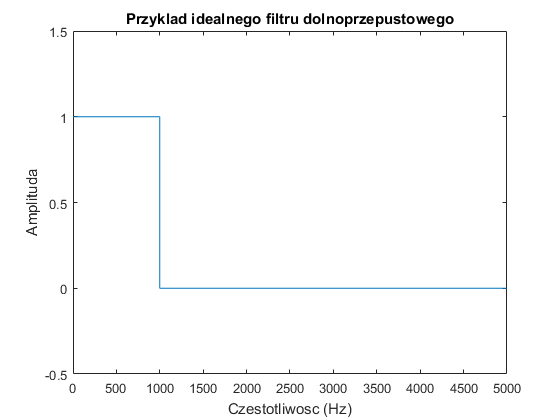
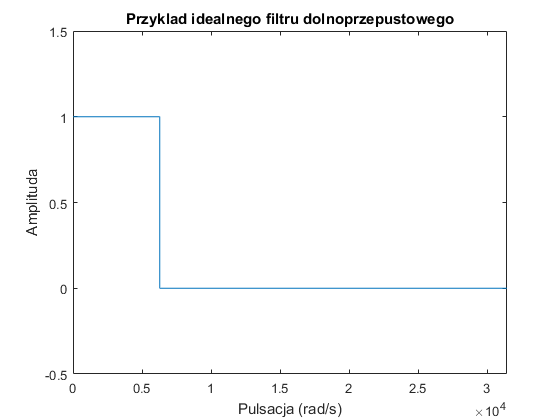
JP: thesis: user interface

diff --git a/PracaMagisterska/subtractive.tex b/PracaMagisterska/subtractive.tex
@@ -1,4 +1,5 @@
 \chapter{Subtraktywna metoda syntezy dźwięku}\label{chapter_subtractive}
+Jedną z większych trudności w cyfrowej implementacji syntezy subtraktywnej jest opracowanie programu, który jest w stanie ją przeprowadzić w czasie rzeczywistym na danej platformie sprzętowej. Program taki musi uwzględniać generowanie przebiegów okresowych, ich filtrację oraz zakładkowanie w celu pozbycia się artefaktów dźwiękowych. W tym rozdziale opisano zasadę działania subtraktywnej syntezy dźwięku, jej implementację na procesorze sygnałowym oraz interfejs użytkownika.
 \section{Zasada działania syntezy subtraktywnej}
 Metoda subtraktywna polega na wygenerowaniu przebiegu okresowego bogatego pod względem składowych harmonicznych. Taki sygnał poddaje się filtracji w celu wytłumienia części składowych, co prowadzi do uzyskania interesujących dźwięków. Najczęściej wykorzystywanymi przebiegami w tej metodzie są: prostokątny, trójkątny, piłokształtny. Do usuwania składowych harmonicznych można zastosować filtry dolnoprzepustowe, górnoprzepustowego, pasmo-zaporowe czy pasmo-przepustowe. Na rysunku \ref{rys:sub_diagram} pokazano schemat blokowy opisanego postępowania.
 
@@ -30,7 +31,11 @@ H(\omega)=\left \{\begin{array}{ r l }
 	gdzie: & $\omega$ &  - & pulsacja, \\
 	&	$\omega_{gr}$ & - &  pulsacja graniczna filtru,\\
 \end{tabular} \\ \\
-przedstawiono na rysunku \ref{rys:sub_lowpass}. Pulsacja graniczna filtru to taka pulsacja, powyżej której wzmocnienie jest mniejsze niż 3 dB w stosunku do pasma przepustowego tego filtru. W przypadku idealnym wzmocnienie zmienia się skokowo z 1 na 0 dokładnie na pulsacji granicznej. W pokazanym przykładzie pulsacja graniczna wynosi 1000 Hz.
+przedstawiono na rysunku \ref{rys:sub_lowpass}. Pulsacja graniczna filtru to taka pulsacja, powyżej której wzmocnienie jest mniejsze niż 3 dB w stosunku do pasma przepustowego tego filtru. W przypadku idealnym wzmocnienie zmienia się skokowo z 1 na 0 dokładnie na pulsacji granicznej. W pokazanym przykładzie pulsacja graniczna wynosi około 6283 rad/s, co zgodnie ze wzorem
+\begin{equation} \label{equ:sub_frequency}
+f = \frac{\omega}{2 \pi}
+\end{equation}
+daje częstotliwość równą 1000 Hz.
 \begin{figure}[H]
 	\centering
 	\includegraphics[width=8cm]{grafiki/sub_lowpass}
@@ -72,14 +77,13 @@ Oznacza to, że równoważnym do działania opisanego w \ref{equ:sub_splot_dyskr
 \begin{equation} \label{equ:sub_splot_dyskretny2}
 y[n] = \mathcal{F}^{-1}\{ H(k) X(k)\} 
 \end{equation}
-
 Zatem z przefiltrowanego widma, za pomocą odwrotnej transformacji Fouriera, obliczany jest przebieg czasowy. W pokazanym przykładzie na \ref{rys:sub_wykres1}, w wyniku otrzymuje się sygnał prostokątny po filtracji dolnoprzepustowej.
 \section{Implementacja syntezy subtraktywnej}
 W przypadku syntezatorów analogowych, poszczególne bloki są realizowane za pomocą elementów elektronicznych takich jak oscylatory (VCO) oraz przestrajalne filtry. W syntezatorach cyfrowych implementacje mogą być różne, jednak muszą być na tyle wydajne obliczeniowo, aby dana platforma sprzętowa poradziła sobie z syntezą dźwięku w czasie rzeczywistym bez artefaktów dźwiękowych. W tym podrozdziale opisana zostanie obrana droga implementacji metody subtraktywnej na procesorze sygnałowym. 
 Próbki sygnału są syntezowane w sposób blokowy. Blok danych składa się z $N=1024$ próbek.
 
 \subsection{Generowanie przebiegu}
-W tablicy o $N$ elementach przechowywane są kolejne próbki sygnału podstawowego, czyli sygnału bogatego w wyższe składowe harmoniczne. Po dokonaniu filtracji i wystawieniu tych próbek na przetwornik cyfrowo-analogowy, w tablicy tej należy wygenerować kolejne 1024 próbek sygnału. Trzeba przy tym pamiętać o odpowiednim przesunięciu fazowym, tak aby zachować ciągłość pomiędzy kolejnymi blokami próbek wystawianych na przetwornik. Równanie \ref{equ:sub_1} opisuje sposób generowania przebiegu prostokątnego.
+W dwóch tablicach o $N$ elementach przechowywane są kolejne próbki sygnału podstawowego, czyli sygnału bogatego w wyższe składowe harmoniczne. Po dokonaniu filtracji i wystawieniu próbek jednej z tablic na przetwornik cyfrowo-analogowy, wystawiane są próbki z drugiej tablicy. W tym czasie w chwilowo nieużywanej tablicy należy wygenerować kolejne 1024 próbek sygnału. Trzeba przy tym pamiętać o odpowiednim przesunięciu fazowym, tak aby zachować ciągłość pomiędzy kolejnymi blokami próbek wystawianych na przetwornik. Równanie \ref{equ:sub_1} opisuje sposób generowania przebiegu prostokątnego.
 \begin{equation} \label{equ:sub_1}
 waveform[i]=\left \{\begin{array}{ r l }
 1, & \quad \text{$dla$ } sin(2\pi f\frac{k+i}{F_s}) > 0\\
@@ -136,11 +140,11 @@ Samo przesuwanie w fazie generowanych sygnałów opisanych w \ref{equ:sub_2} nie
 	\label{rys:sub_zakladkowania_brak}
 \end{figure}
 Rozwiązaniem tego problemu jest zakładkowanie każdych dwóch sąsiednich bloków próbek. Zakładkowanie polega na nasunięciu pewnej liczby $m$ początkowych próbek następnego bloku, na $m$ końcowych próbek bieżącego. W miejscach, gdzie bloki są na siebie nałożone, wartość każdej próbki obliczana jest jako średnia ważona z dwóch nałożonych na siebie próbek. Przy czym suma wag w każdej chwili czasu jest równa 1, wagi próbek bloku bieżącego maleją wraz z czasem, natomiast wagi próbek bloku następnego narastają. Najprostszym rozwiązaniem (a zatem efektywnym obliczeniowo) są wagi liniowe. Oznacza to, że wagi dla $m$ ostatnich lub pierwszych próbek bloku odpowiednio: liniowo maleją od 1 do 0 lub liniowo rosną od 0 do 1.
-Nakładane na siebie próbki muszą odpowiadać sygnałowi w tej samej fazie, zatem należy zmodyfikować przesunięcie fazowe opisane przez \ref{equ:sub_2} do postaci \ref{equ:sub_4}:
+Nakładane na siebie próbki muszą odpowiadać sygnałowi w tej samej fazie, zatem należy zmodyfikować przesunięcie fazowe opisane przez \ref{equ:sub_2} do postaci:
 \begin{equation} \label{equ:sub_4}
 k = k_{old} + N - m.
 \end{equation}
-Porównanie zakładkowania dla różnych wartości $m$ przedstawiono na \ref{rys:sub_overlaps}.
+Porównanie zakładkowania dla różnych wartości $m$ przedstawiono na rysunku  \ref{rys:sub_overlaps}.
 \begin{figure}[H]
 	\centering
 	\includegraphics[width=10cm]{grafiki/sub_overlaps}
@@ -172,3 +176,25 @@ Zatem w programie na DSP, zamiast obliczać ciągle DFT, filtrację oraz IDFT ty
 	\caption{Własność liniowości przekształcenia Fouriera.}
 	\label{rys:sub_linearity}
 \end{figure}
+
+\section{Interfejs użytkownika}
+Przy syntezie subtraktywnej, użytkownik powinien mieć możliwość samodzielnego wyboru przebiegów podstawowych generowanych przy naciskaniu klawiszy oraz strojenia filtrów, które ten przebieg filtrować będą. W przypadku filtrów idealnych, jedyne co musi określić użytkownik dla ich działania, to ich częstotliwości graniczne.
+\begin{figure}[H]
+	\centering
+	\includegraphics[width=12cm]{grafiki/sub_interface}
+	\captionsetup{justification=centering}
+	\caption{Interfejs użytkownika dla syntezy subtraktywnej.}
+	\label{rys:sub_interface}
+\end{figure}
+Na rysunku \ref{rys:sub_interface} zaznaczono trzy sekcje wykonanego interfejsu dla syntezy subtraktywnej. W pierwszej z nich znajduje się przycisk, który służy do aktywacji tej metody syntezy dźwięku. Po naciśnięciu tego klawisza, DSP otrzymuje komunikat, po którym przechodzi w tryb syntezy subtraktywnej.
+
+W sekcji drugiej znajdują się rodzaje przebiegów podstawowych, spośród których użytkownik może wybrać tylko jeden w danej chwili. Zaznaczenie dowolnego z nich zmienia w programie DSP odpowiednią flagę. Gdy następnie zostanie naciśnięty klawisz, wygenerowany zostanie właśnie taki przebieg podstawowy, jaki jest w interfejsie zaznaczony.
+
+W trzeciej sekcji znajdują rodzaje filtrów oraz suwaki pozwalające na wybór częstotliwości granicznych: dolnej, górnej lub obu jednocześnie - zależnie od wybranego rodzaju filtra. Podobnie jak przy wyborze rodzaju przebiegu podstawowego - tutaj również użytkownik zaznacza jeden z rodzajów filtra. W zależności od wybranego filtra, odblokowane zostaną odpowiednie suwaki pozwalające mieniać częstotliwości graniczne. Na przykład, dla filtra dolnoprzepustowego odblokowany zostanie tylko suwak dolny, gdyż to on odpowiada za częstotliwość graniczną górną. Natomiast dla filtru pasmo-przepustowego odblokowane zostaną oba suwaki, a pasmo przepustowe zawierać się będzie pomiędzy wskazaniem suwaka górnego - częstotliwości granicznej dolnej oraz suwaka dolnego - częstotliwości granicznej górnej.
+Zmian częstotliwości można dokonywać na dwa sposoby:
+\begin{itemize}
+	\item za pomocą suwaków. W tym wypadku wartość ustawiona za pomocą suwaka zostanie automatycznie wpisana do pola tekstowego skojarzonego z tym suwakiem.
+	\item Poprzez precyzyjne wpisanie wartości do pola tekstowego obok suwaka. W tej sytuacji suwak automatycznie się przesunie na pozycję odpowiadającą wpisanej wartości.
+\end{itemize}
+\section{Wyniki}
+
